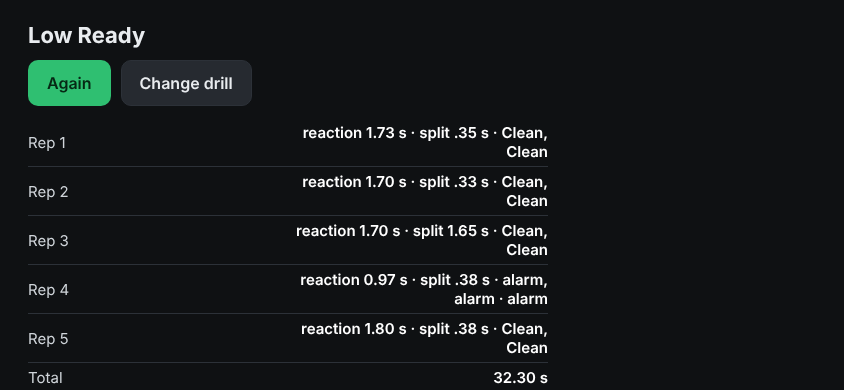
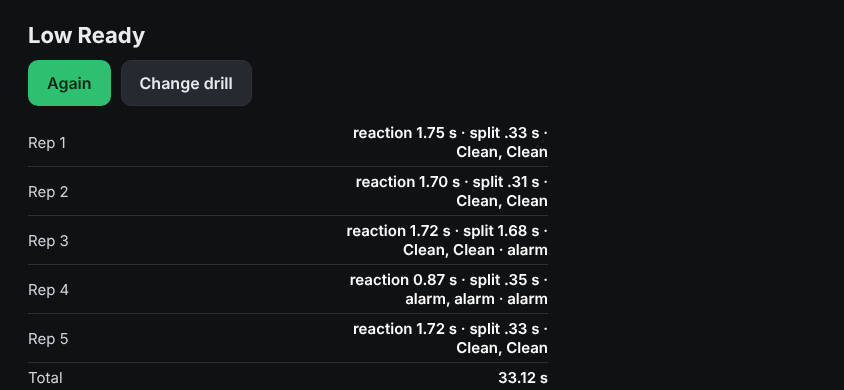
WQ-028: tests for the Low Ready fix round
Smoke: between-reps alarm, pause while the cue timer runs, early shot before
rep 1, three-shot rep, new standby text, best-average-reaction row. Replay:
180 alarm spanning two beeps counts once. Roundtrip: condition wait for the
results pause, deterministic alternative seed scan, standby text checks.
Results screenshots regenerated.

Claude-Session: https://claude.ai/code/session_013aLc3vB9FXw7qDu4fx63c5

diff --git a/tests/smoke.js b/tests/smoke.js
@@ -943,8 +943,11 @@ const check = (name, cond, state) => {
     let d = await lst();
     check('WQ-028: after Start the Low Ready run is in standby: rep 0, nothing done, no shots, no cue pending',
       d.drill && d.drill.id === 'lowready' && d.drill.phase === 'standby' && d.drill.rep === 0 && d.drill.repsDone === 0 && d.drill.curShots === 0 && d.drill.cuePending === false && d.drillRuns === 0, d);
-    check('WQ-028: standby line: "Rep 1 of 5 · wait for the beep"', await lline() === 'Rep 1 of 5 · wait for the beep', await lline());
-    await ltouch('touchStart', [REST]);
+    check('WQ-028: before any touch the line says "Rep 1 of 5 · finger on the frame" and the delay has not started (dueSet false)',
+      await lline() === 'Rep 1 of 5 · finger on the frame' && d.drill.dueSet === false, [await lline(), d.drill]);
+    await ltouch('touchStart', [REST]); await lmotion(4); d = await lst();
+    check('WQ-028: finger on the frame starts the delay: dueSet true, line "Rep 1 of 5 · wait for the beep"',
+      d.drill.dueSet === true && d.drill.phase === 'standby' && await lline() === 'Rep 1 of 5 · wait for the beep', [await lline(), d.drill]);
     d = await waitBeep(1);
     let lo = await LO();
     const arm = await lp.evaluate(() => performance.now());   // upper bound only; the observer's first 'rest' frame is the arming frame
@@ -986,6 +989,13 @@ const check = (name, cond, state) => {
     check(`WQ-028: rep 2: no cue between the first return and the lift; the cue is >= 750 ms (- one frame) after the SECOND return frame (${cue2 && secondRest2 ? (cue2.n - secondRest2.n).toFixed(0) : '?'} ms), which is >= 400 ms after the first (${secondRest2 && firstRest2 ? (secondRest2.n - firstRest2.n).toFixed(0) : '?'} ms)`,
       !!cue2 && !!firstRest2 && !!secondRest2 && secondRest2.n - firstRest2.n >= 400 && cue2.n - secondRest2.n >= 750 - FRM &&
       !lo.ev.some(e => e.k === 'cue' && e.rep === 2 && e.n < secondRest2.n), [firstRest2, secondRest2, cue2]);
+    // alarm BETWEEN reps (after cue 2, before beep 3): lift the finger and wobble; it clears when the finger returns
+    await ltouch('touchEnd', []); await lmotion(18);
+    await lwobble(80, 15); d = await lst();
+    check('WQ-028: between reps: moving off the frame after cue 2 alarms (standby, rep 2 played, delay running)',
+      d.alarmActive && d.alarmReason === 'move' && d.drill.phase === 'standby' && d.drill.rep === 2 && d.drill.dueSet === true, d);
+    await fingerBack(); await lmotion(4); d = await lst();
+    check('WQ-028: between reps: the alarm clears when the finger returns, before beep 3', !d.alarmActive && d.drill.phase === 'standby' && d.drill.rep === 2, d);
     // rep 3: finger back after only one shot
     d = await waitBeep(3);
     await lsleep(1500);
@@ -1018,7 +1028,7 @@ const check = (name, cond, state) => {
     check('WQ-028: after rep 5: results open, one run, the engine is paused, phase ended, five reps done, no drillCancel path taken',
       d.drillResOpen && d.drillRuns === 1 && d.paused === true && d.drill.phase === 'ended' && d.drill.repsDone === 5 && d.drill.result && d.drill.result.reps.length === 5, d);
     const texts = lo.lines.map(x => x.l);
-    for (const [name, re] of [['standby, rep 1', /^Rep 1 of 5 · wait for the beep$/], ['standby, rep 2', /^Rep 2 of 5 · wait for the beep$/], ['standby, rep 5', /^Rep 5 of 5 · wait for the beep$/],
+    for (const [name, re] of [['standby before the touch', /^Rep 1 of 5 · finger on the frame$/], ['standby, rep 1', /^Rep 1 of 5 · wait for the beep$/], ['standby, rep 2', /^Rep 2 of 5 · wait for the beep$/], ['standby, rep 5', /^Rep 5 of 5 · wait for the beep$/],
       ['live, no shot', /^Go — raise and fire two$/], ['live, one shot', /^Shot 1 of 2 — fire again$/], ['finishing', /^Finger back on the frame$/], ['hold', /^Hold…$/]]) {
       check(`WQ-028: the drill line showed ${name}`, texts.some(x => re.test(x)), texts);
     }
@@ -1030,8 +1040,8 @@ const check = (name, cond, state) => {
     const endEv = pick(lo.ev, 'res'), b1 = pick(lo.ev, 'beep', e => e.rep === 1);
     const rows = await lrows(), res = d.drill.result;
     const rowOf = k => (rows.find(r => r[0] === k) || [])[1];
-    check('WQ-028: results table: rows Rep 1..Rep 5, Total, Average reaction, Best reaction, With alarm, Best clean total (in that order)',
-      JSON.stringify(rows.map(r => r[0])) === JSON.stringify(['Rep 1', 'Rep 2', 'Rep 3', 'Rep 4', 'Rep 5', 'Total', 'Average reaction (reps with no alarm)', 'Best reaction (reps with no alarm)', 'With alarm', 'Best clean total this session']), rows);
+    check('WQ-028: results table: rows Rep 1..Rep 5, Total, Average reaction, Best reaction, With alarm, Best average reaction (in that order)',
+      JSON.stringify(rows.map(r => r[0])) === JSON.stringify(['Rep 1', 'Rep 2', 'Rep 3', 'Rep 4', 'Rep 5', 'Total', 'Average reaction (reps with no alarm)', 'Best reaction (reps with no alarm)', 'With alarm', 'Best average reaction this session (runs with no alarm)']), rows);
     check('WQ-028: results title says Low Ready', /Low Ready/.test(await lp.textContent('#drillResTitle')));
     const parse = v => { const m = /^reaction (\d+\.\d\d) s · split (\d*\.\d\d) s · (.*)$/.exec(v || ''); return m && { reaction: +m[1], split: +m[2], grades: m[3] }; };
     for (let i = 0; i < 5; i++) {
@@ -1039,20 +1049,21 @@ const check = (name, cond, state) => {
       check(`WQ-028: Rep ${i + 1} row: reaction ${p && p.reaction} s / split ${p && p.split} s match the observed frames (${per[i].reaction.toFixed(3)} / ${per[i].split.toFixed(3)}) within 40 ms`,
         !!p && Math.abs(p.reaction - per[i].reaction) <= 0.04 && Math.abs(p.split - per[i].split) <= 0.04, [rows[i], per[i]]);
     }
-    check('WQ-028: Rep 4 row ends with "alarm" and lists alarm for both shots; the other rows have grades and no alarm mark',
-      /alarm, alarm · alarm$/.test(rowOf('Rep 4')) && [1, 2, 3, 5].every(n => !/alarm/.test(rowOf(`Rep ${n}`)) && /(Clean|Moved|Jerked)/.test(rowOf(`Rep ${n}`))), rows);
+    check('WQ-028: Rep 4 row ends with "alarm" and lists alarm for both shots; Rep 3 (alarm between the reps) ends with "alarm" but its shots are graded; reps 1, 2, 5 have no alarm mark',
+      /alarm, alarm · alarm$/.test(rowOf('Rep 4')) && /Clean, Clean · alarm$/.test(rowOf('Rep 3')) && [1, 2, 5].every(n => !/alarm/.test(rowOf(`Rep ${n}`)) && /(Clean|Moved|Jerked)/.test(rowOf(`Rep ${n}`))), rows);
     check(`WQ-028: Total is rep 1's beep to the end, from the observed frames (${endEv && b1 ? ((endEv.n - b1.n) / 1000).toFixed(3) : '?'} s), within 40 ms`,
       /^\d+\.\d\d s$/.test(rowOf('Total') || '') && !!endEv && !!b1 && Math.abs(parseFloat(rowOf('Total')) - (endEv.n - b1.n) / 1000) <= 0.04, [rowOf('Total'), endEv, b1]);
-    const cleanR = [0, 1, 2, 4].map(i => per[i].reaction);
-    check(`WQ-028: Average / Best reaction cover the four reps with no alarm (observed mean ${(cleanR.reduce((x, y) => x + y, 0) / 4).toFixed(3)}, min ${Math.min(...cleanR).toFixed(3)}; alarm rep ${per[3].reaction.toFixed(3)} s is faster and excluded)`,
+    const cleanR = [0, 1, 4].map(i => per[i].reaction);
+    check(`WQ-028: Average / Best reaction cover the three reps with no alarm (1, 2, 5; observed mean ${(cleanR.reduce((x, y) => x + y, 0) / 3).toFixed(3)}, min ${Math.min(...cleanR).toFixed(3)}; alarm rep ${per[3].reaction.toFixed(3)} s is faster and excluded)`,
       /^\d+\.\d\d s$/.test(rowOf('Average reaction (reps with no alarm)') || '') && /^\d+\.\d\d s$/.test(rowOf('Best reaction (reps with no alarm)') || '') &&
       per[3].reaction < Math.min(...cleanR) - 0.2 &&
-      Math.abs(parseFloat(rowOf('Average reaction (reps with no alarm)')) - cleanR.reduce((x, y) => x + y, 0) / 4) <= 0.04 &&
+      Math.abs(parseFloat(rowOf('Average reaction (reps with no alarm)')) - cleanR.reduce((x, y) => x + y, 0) / 3) <= 0.04 &&
       Math.abs(parseFloat(rowOf('Best reaction (reps with no alarm)')) - Math.min(...cleanR)) <= 0.04, [rows, per]);
-    check('WQ-028: result: rep 4 is the only rep with an alarm; run withAlarm; the figures exclude rep 4',
-      res.reps.map(p => p.withAlarm).join() === 'false,false,false,true,false' && res.withAlarm === true && res.alarms === 1 && res.bestReaction > res.reps[3].reaction && res.avgReaction > res.reps[3].reaction, res);
-    check('WQ-028: With alarm row names one alarm; Best clean total is a dash (the only run had an alarm)',
-      /^1 alarm/.test(rowOf('With alarm') || '') && rowOf('Best clean total this session') === '—', rows);
+    check('WQ-028: result: reps 3 (alarm between reps) and 4 (alarm in the rep) are marked; the run counts two alarms; the figures exclude both',
+      res.reps.map(p => p.withAlarm).join() === 'false,false,true,true,false' && res.withAlarm === true && res.alarms === 2 && res.reps[2].alarms === 1 && res.reps[3].alarms === 1 &&
+      res.bestReaction > res.reps[3].reaction && res.avgReaction > res.reps[3].reaction, res);
+    check('WQ-028: With alarm row appears and names two alarms; Best average reaction is a dash (the only run had an alarm)',
+      /^2 alarms/.test(rowOf('With alarm') || '') && rowOf('Best average reaction this session (runs with no alarm)') === '—', rows);
     check('WQ-028: shots per rep 2, 2, 2, 2, 2 (the one-shot rep got its second shot) and no early shots', res.reps.map(p => p.shots.length).join() === '2,2,2,2,2' && res.early === 0, res.reps);
     await shoot(path.join(shotDir, 'results-landscape.png'));
     for (const sel of ['#drillAgain', '#drillChange']) { const r = await inView(sel, W, H); check(`WQ-028: ${sel} is inside the 844x390 viewport on the Low Ready results`, r === true, r); }
@@ -1069,10 +1080,20 @@ const check = (name, cond, state) => {
     await ltouch('touchEnd', []);
     await lp.click('#drillAgain'); await lp.waitForTimeout(100);
     d = await lst();
-    check('WQ-028: Again: results closed, new run in standby at rep 0, run count stays 1, line "Rep 1 of 5 · wait for the beep"',
-      !d.drillResOpen && d.drill.phase === 'standby' && d.drill.rep === 0 && d.drill.repsDone === 0 && d.drillRuns === 1 && d.running && await lline() === 'Rep 1 of 5 · wait for the beep', [d, await lline()]);
+    check('WQ-028: Again: results closed, new run in standby at rep 0, run count stays 1, line "Rep 1 of 5 · finger on the frame"',
+      !d.drillResOpen && d.drill.phase === 'standby' && d.drill.rep === 0 && d.drill.repsDone === 0 && d.drillRuns === 1 && d.running && await lline() === 'Rep 1 of 5 · finger on the frame', [d, await lline()]);
     await observeL();
     await ltouch('touchStart', [REST]);
+    d = await waitBeep(1); await fireTwo(0); await fingerBack(); await lmotion(5); d = await lst();
+    check('WQ-028: run 2: two shots fired, finger back, the cue timer runs (finishing, cuePending)', d.drill.phase === 'finishing' && d.drill.cuePending === true && d.drill.repsDone === 0, d.drill);
+    await lp.click('#gear'); await lp.waitForTimeout(120);
+    d = await lst();
+    check('WQ-028: gear while the cue timer runs cancels: paused, cuePending false, rep 0, repsDone 0, standby, no cue played',
+      d.paused && d.drill.phase === 'standby' && d.drill.cuePending === false && d.drill.rep === 0 && d.drill.repsDone === 0 && d.drill.curShots === 0 &&
+      !pick((await LO()).ev, 'cue'), d);
+    await lp.click('#doneBtn'); await lp.waitForTimeout(100);
+    check('WQ-028: after Resume the cue timer is gone (cuePending false) and the line says Cancelled', (await lst()).drill.cuePending === false && /^Cancelled/.test(await lline()), [await lline(), (await lst()).drill]);
+    await ltouch('touchEnd', []); await lmotion(2); await ltouch('touchStart', [REST]);
     d = await waitBeep(1); await fireTwo(0); back = await fingerBack(); await checkCue(1, back, 'run 2, rep 1');
     d = await lst();
     check('WQ-028: run 2: between reps (cue 1 played, standby, delay running)', d.drill.phase === 'standby' && d.drill.rep === 1 && d.drill.repsDone === 1 && d.armed && d.onRest, d);
@@ -1083,6 +1104,11 @@ const check = (name, cond, state) => {
     await lp.click('#doneBtn'); await lp.waitForTimeout(100);
     check('WQ-028: after Resume the line says Cancelled and to restart', /^Cancelled/.test(await lline()) && /restart/i.test(await lline()), await lline());
     await ltouch('touchEnd', []); await lmotion(2);
+    await ltouch('touchStart', [REST]); await lmotion(5);
+    await ltouch('touchEnd', []); await lmotion(2);
+    await lpress();                                              // a shot before rep 1's beep (the delay is >= 2 s): early
+    d = await lst();
+    check('WQ-028: a shot before rep 1\'s beep is early: run early 1, standby, rep 0', d.drill.phase === 'standby' && d.drill.early === 1 && d.drill.rep === 0 && d.drill.curShots === 0, d.drill);
     await ltouch('touchStart', [REST]);
     d = await waitBeep(1);
     check('WQ-028: after the cancel the run restarts at rep 1: a fresh beep, 0 reps done, line "Go — raise and fire two" (no Cancelled)',
@@ -1091,20 +1117,27 @@ const check = (name, cond, state) => {
     await lmotion(2); await ltouch('touchEnd', []); await lmotion(2);
     await lpress();                                              // a shot before rep 2's beep (the delay is >= 2 s): early
     d = await lst();
-    check('WQ-028: a shot between the cue and the next beep is early: run early 1, still standby, no rep shot', d.drill.phase === 'standby' && d.drill.early === 1 && d.drill.curShots === 0 && d.drill.rep === 1, d.drill);
+    check('WQ-028: a shot between the cue and the next beep is early: run early 2 (with the one before rep 1), still standby, no rep shot', d.drill.phase === 'standby' && d.drill.early === 2 && d.drill.curShots === 0 && d.drill.rep === 1, d.drill);
     await ltouch('touchStart', [REST]);
     d = await waitBeep(2); await fireTwo(0); back = await fingerBack(); await checkCue(2, back, 'run 2, rep 2');
-    for (const rp of [3, 4, 5]) { d = await waitBeep(rp); await fireTwo(0); back = await fingerBack(); await checkCue(rp, back, `run 2, rep ${rp}`); }
+    for (const rp of [3, 4, 5]) { d = await waitBeep(rp); await fireTwo(0); if (rp === 3) { await lpress(); d = await lst(); check('WQ-028: run 2 rep 3: a third shot joins the rep (finishing, 3 shots, no cue yet)', d.drill.phase === 'finishing' && d.drill.curShots === 3 && d.drill.repsDone === 2, d.drill); } back = await fingerBack(); await checkCue(rp, back, `run 2, rep ${rp}`); }
     d = await lst();
     const rows2 = await lrows(), r2 = d.drill.result;
     check('WQ-028: run 2 ends with the results open and 2 runs; clean run: no With alarm row', d.drillResOpen && d.drillRuns === 2 && !rows2.some(r => r[0] === 'With alarm') && r2.withAlarm === false, [d.drillRuns, rows2]);
-    check('WQ-028: the early shot shows on rep 2 ("early 1") and as an Early shots row of 1; rep 1 carries none',
-      / · early 1$/.test((rows2.find(r => r[0] === 'Rep 2') || [])[1] || '') && !/early/.test((rows2.find(r => r[0] === 'Rep 1') || [])[1]) &&
-      rows2.some(r => /^Early shots/.test(r[0]) && r[1] === '1') && r2.reps[1].early === 1 && r2.early === 1, [rows2, r2.reps.map(p => p.early)]);
+    check('WQ-028: the early shots show on Rep 1 and Rep 2 ("early 1") and as an Early shots row of 2; the other reps carry none',
+      / · early 1$/.test((rows2.find(r => r[0] === 'Rep 2') || [])[1] || '') && / · early 1$/.test((rows2.find(r => r[0] === 'Rep 1') || [])[1] || '') &&
+      [3, 4, 5].every(n => !/early/.test((rows2.find(r => r[0] === `Rep ${n}`) || [])[1])) &&
+      rows2.some(r => /^Early shots/.test(r[0]) && r[1] === '2') && r2.reps.map(p => p.early).join() === '1,1,0,0,0' && r2.early === 2, [rows2, r2.reps.map(p => p.early)]);
+    check('WQ-028: three shots in rep 3 list three grades (and the other reps two), with no extra cue',
+      /Clean, Clean, Clean$/.test((rows2.find(r => r[0] === 'Rep 3') || [])[1] || '') && r2.reps.map(p => p.shots.length).join() === '2,2,3,2,2' && !rows2.some(r => /^Rep 6/.test(r[0])), [rows2, r2.reps.map(p => p.shots.length)]);
     const lo2 = await LO(), b1b = pickLast(lo2.ev, 'beep', e => e.rep === 1), endB = pickLast(lo2.ev, 'res');
-    check(`WQ-028: run 2 Best clean total is this run's total (the alarm run is excluded) = observed ${b1b && endB ? ((endB.n - b1b.n) / 1000).toFixed(2) : '?'} s`,
+    const avg2 = [1, 2, 3, 4, 5].map(rp => { const b = pickLast(lo2.ev, 'beep', e => e.rep === rp), s1 = pickLast(lo2.ev, 'shot', e => e.rep === rp && e.i === 1); return b && s1 ? (s1.n - b.n) / 1000 : NaN; });
+    const avg2v = avg2.reduce((x, y) => x + y, 0) / 5;
+    check(`WQ-028: run 2 Total matches the observed frames, and its Average reaction (${avg2v.toFixed(3)} s from the observer) is the session's Best average reaction (run 1 had an alarm and is excluded)`,
       b1b && endB && Math.abs(parseFloat((rows2.find(r => r[0] === 'Total') || [])[1]) - (endB.n - b1b.n) / 1000) <= 0.04 &&
-      (rows2.find(r => /^Best clean/.test(r[0])) || [])[1] === (rows2.find(r => r[0] === 'Total') || [])[1], rows2);
+      Math.abs(parseFloat((rows2.find(r => /^Average reaction/.test(r[0])) || [])[1]) - avg2v) <= 0.04 &&
+      Math.abs(parseFloat((rows2.find(r => /^Best average reaction/.test(r[0])) || [])[1]) - avg2v) <= 0.04 &&
+      (rows2.find(r => /^Best average reaction/.test(r[0])) || [])[1] === (rows2.find(r => /^Average reaction/.test(r[0])) || [])[1], [rows2, avg2]);
 
     // --- 4. Change drill
     await ltouch('touchEnd', []);

diff --git a/tests/replay.js b/tests/replay.js
@@ -243,6 +243,37 @@ if (lrFile) {
     t('pausing a live Low Ready run emits one drillCancel and restarts at rep 0 in standby with no reps (D-105)',
       evs.filter(e => e.type === 'drillCancel').length === 1 && eng.state.drill.phase === 'standby' && eng.state.drill.rep === 0 && eng.state.drill.reps.length === 0 && eng.state.drill.cur === null);
   }
+  // An alarm that spans two beeps counts once (D-105): a 180 alarm (muzzle swung 97 deg off downrange before the finger
+  // touches the frame) sounds through rep 1's beep, rep 1's shots, the cue and rep 2's beep; the run counts one alarm,
+  // and both reps are marked with it.
+  {
+    const W = 844, H = 390, mid = z => [(z.x + z.w / 2) * W, (z.y + z.h / 2) * H];
+    const REST = [{ id: 1, cx: mid(TDT.ZONES.rest)[0], cy: mid(TDT.ZONES.rest)[1], rx: 0, ry: 0 }], TR = mid(TDT.zoneFor('trigger', W));
+    const evs = [], eng = TDT.createEngine(Object.assign({}, TDT.DEFAULTS), { onEvent: e => evs.push(e) });
+    let T = 0; const step = (a = 0) => { T += 1000 / 60; eng.motion({ t: T, a, b: 0, g: 0, angle: 90 }); eng.tick(T); };
+    const run = ms => { const e = T + ms; while (T < e) step(); };
+    const press = () => {
+      eng.touches(T, [{ id: 2, cx: TR[0], cy: TR[1], rx: 0, ry: 0 }], W, H); run(60);
+      for (const dx of [20, 45, 70]) { eng.touches(T, [{ id: 2, cx: TR[0] - dx, cy: TR[1], rx: 0, ry: 0 }], W, H); run(40); }
+      run(30); eng.touches(T, [], W, H); run(50);
+    };
+    const until = (cond, maxMs) => { const e = T + maxMs; while (!cond() && T < e) run(17); return cond(); };
+    const d = () => eng.state.drill;
+    eng.setPaused(false, 0); eng.startDrill(0, 'lowready', 3);
+    run(100); eng.setDownrange(T); run(100);
+    for (let n = 0; eng.state.dev180 < 95 && n < 400; n++) step(-120);   // finger off the frame: unarmed, no alarm yet
+    t(`180 setup: muzzle ${eng.state.dev180.toFixed(0)} deg off downrange, no alarm yet`, eng.state.dev180 > 95 && !eng.state.alarmActive);
+    eng.touches(T, REST, W, H);
+    t('rep 1 beep with the 180 alarm sounding: run alarms 1, rep 1 marked', until(() => d().rep === 1, 7000) && eng.state.alarmActive && d().alarms === 1 && d().cur.alarms === 1);
+    press(); press(); eng.touches(T, REST, W, H);
+    t('cue 1 with the alarm still sounding: run alarms still 1', until(() => d().reps.length === 1, 3000) && eng.state.alarmActive && d().alarms === 1 && d().reps[0].alarms === 1);
+    t('rep 2 beep with the same alarm still sounding: run alarms still 1 (once per episode), rep 2 marked', until(() => d().rep === 2, 7000) && eng.state.alarmActive && d().alarms === 1 && d().cur.alarms === 1);
+    press(); press(); eng.touches(T, REST, W, H);
+    t('cue 2: both reps marked with one alarm each; the run counts one alarm episode; only one alarmStart event',
+      until(() => d().reps.length === 2, 3000) && d().alarms === 1 && d().reps.every(r => r.alarms === 1 && r.withAlarm) && evs.filter(e => e.type === 'alarmStart').length === 1,
+      d().reps.map(r => r.alarms));
+    t('shots fired in the alarm are not graded (unsafe)', d().reps.every(r => r.shots.every(x => x.unsafe)));
+  }
 }
 
 for (const [ua, list] of Object.entries(byDevice)) {

diff --git a/tests/roundtrip.js b/tests/roundtrip.js
@@ -180,11 +180,12 @@ const check = (name, cond, extra) => {
   {
     // Another seed must give a beep too (the delay fits the log), at a different time than the recorded one.
     const b1 = resB.events.find(e => e.type === 'drillBeep'), i = recB.log.findIndex(r => r[0] === 'r');
+    // Scan seeds in Node (replay is cheap) until one yields a beep inside the recorded log at a different time.
     let b2 = null, used = null;
-    for (const add of [777, 1001, 2003, 3001, 5003, 8009]) {
+    for (let add = 1; add <= 5000 && !b2; add++) {
       const r2 = JSON.parse(JSON.stringify(recB)); r2.log[i][3] = (r2.log[i][3] + add) >>> 0;
       const e = TDT.replay(r2).events.find(x => x.type === 'drillBeep');
-      if (e && e.t !== b1.t) { b2 = e; used = add; break; }
+      if (e && e.t !== b1.t) { b2 = e; used = add; }
     }
     check(`WQ-027: Bill recording: another seed gives a beep too, at a different time (${b1 && b1.t} vs ${b2 && b2.t}, seed + ${used})`, !!b1 && !!b2 && b2.t !== b1.t);
   }
@@ -203,7 +204,10 @@ const check = (name, cond, extra) => {
   check('WQ-028: Low Ready recording started with the drill in standby at rep 0', await page.evaluate(() => {
     const t = window.__tdt(); return t.recording && t.drill && t.drill.id === 'lowready' && t.drill.phase === 'standby' && t.drill.rep === 0; }));
   await page.waitForTimeout(150);
-  await touch('touchStart', [REST]);
+  const lineLR = () => page.textContent('#drillLine');
+  check('WQ-028: before any touch the drill line says "Rep 1 of 5 · finger on the frame"', await lineLR() === 'Rep 1 of 5 · finger on the frame', await lineLR());
+  await touch('touchStart', [REST]); await motion(0, 0, 4);
+  check('WQ-028: with the finger on the frame the line says "Rep 1 of 5 · wait for the beep"', await lineLR() === 'Rep 1 of 5 · wait for the beep', await lineLR());
   const stLR = () => page.evaluate(() => window.__tdt());
   const waitLR = async (cond, maxMs) => { const t1 = Date.now(); let x; while (Date.now() - t1 < maxMs) { await motion(0, 0, 1); x = await stLR(); if (cond(x)) return x; } return x; };
   let lrOk = true, lrLast = null;
@@ -216,7 +220,7 @@ const check = (name, cond, extra) => {
     lrLast = await waitLR(x => rp === 5 ? x.drillResOpen : x.drill.repsDone >= rp, 2500);
     if (!(rp === 5 ? lrLast.drillResOpen : lrLast.drill.repsDone >= rp)) { lrOk = false; break; }
   }
-  await motion(0, 0, 4); lrLast = await stLR();   // one frame later the page has paused the engine for the results overlay
+  lrLast = await waitLR(x => x.drillResOpen && x.paused, 3000);   // the page pauses the engine on the frame after the results open
   check('WQ-028: Low Ready recording: all five reps ran live and the results opened', lrOk && lrLast.drillResOpen && lrLast.drillRuns === 1 && lrLast.paused === true, lrLast);
   await touch('touchEnd', []);
   await page.click('#drillChange');
